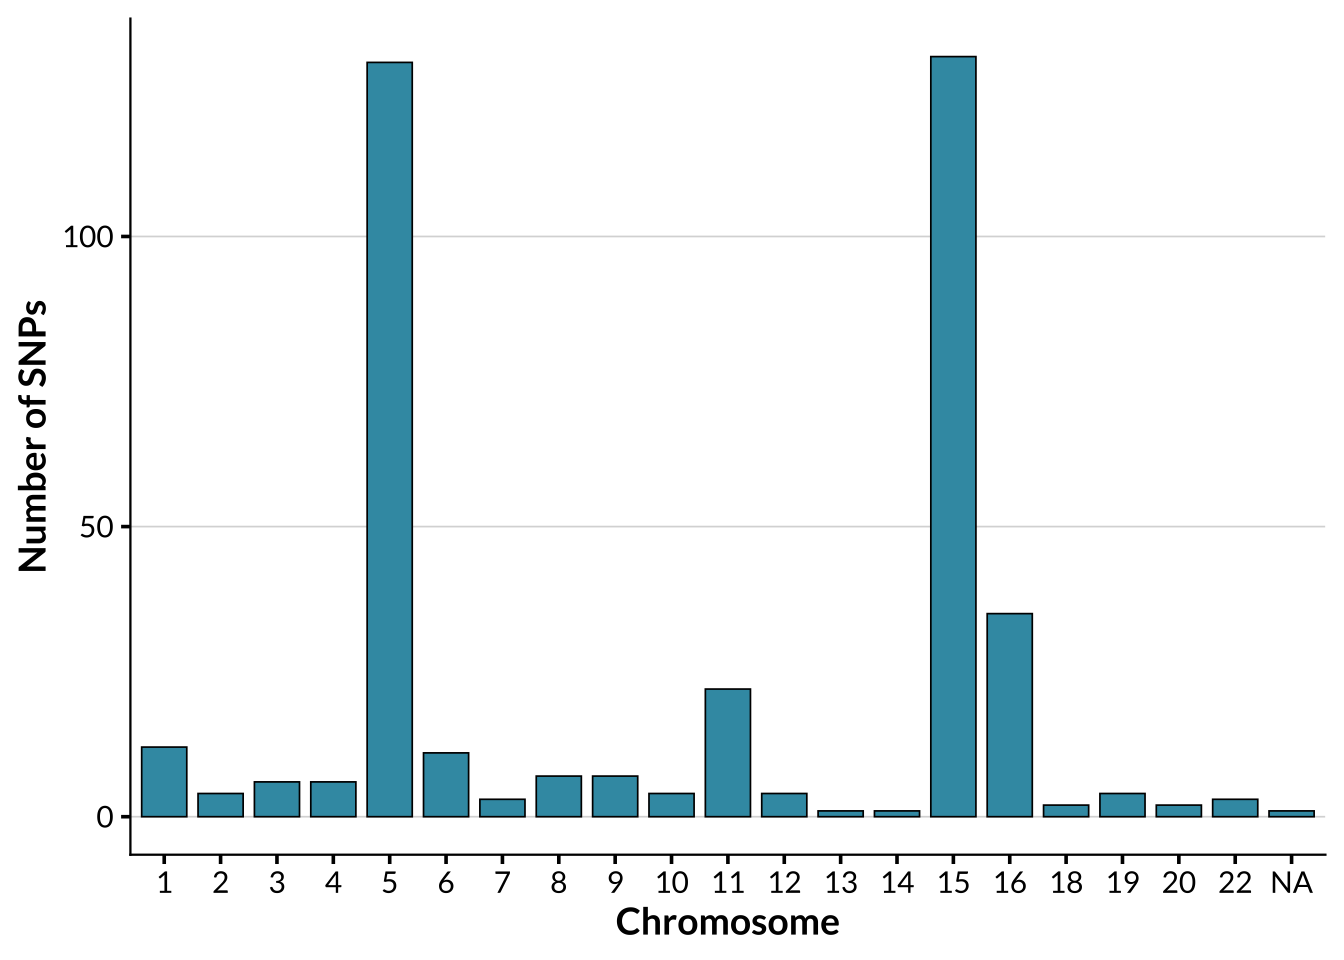
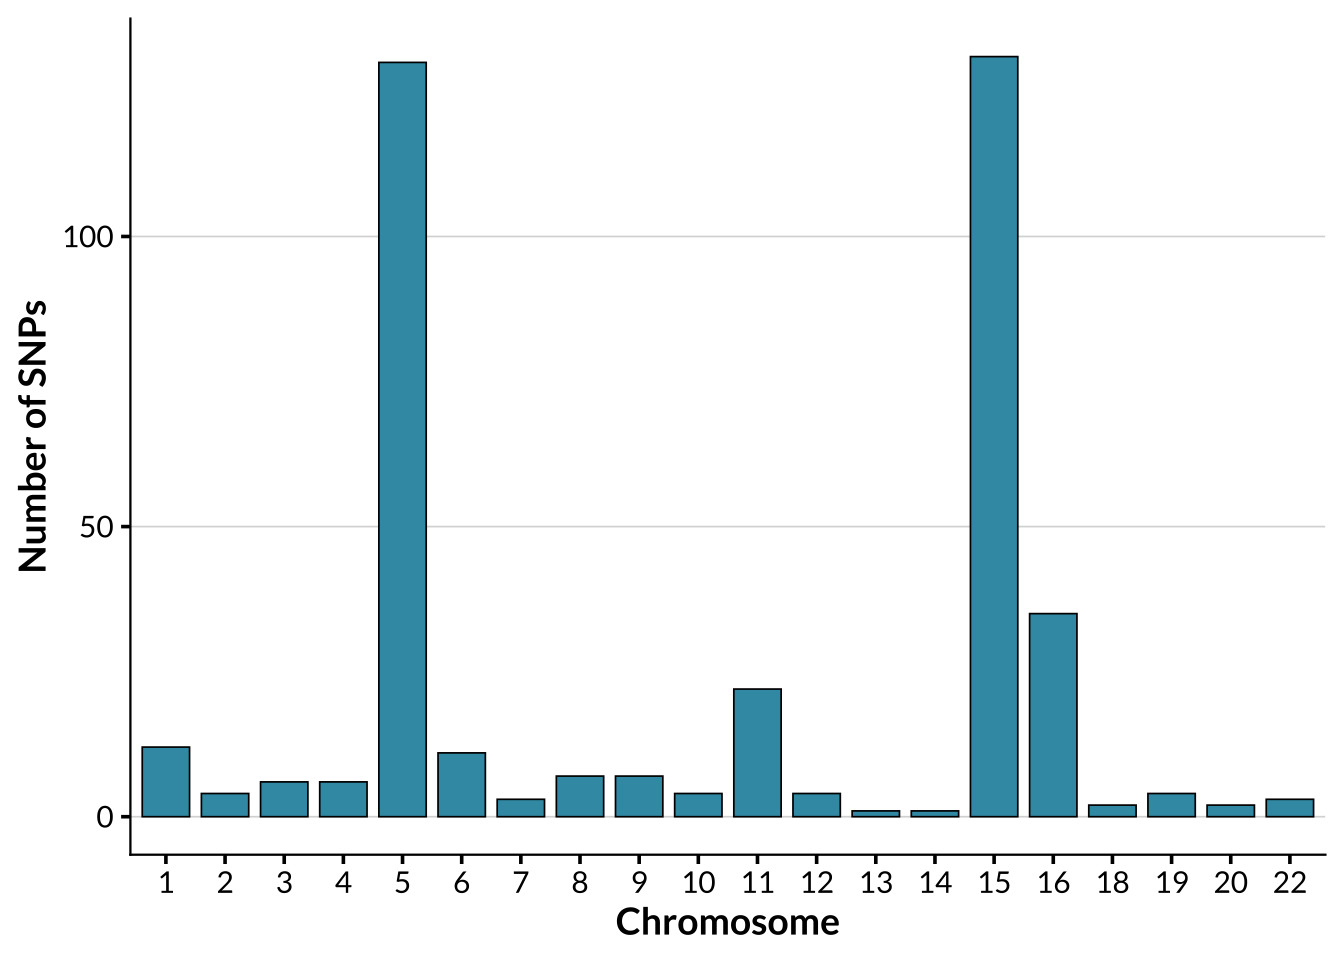
Clean bar chart

Changed region(s): [[0.125, 0.0312, 1.0, 0.875], [0.25, 0.9062, 0.9688, 0.9375], [0.1562, 0.9062, 0.2188, 0.9375]]

diff --git a/docs/introduction.html b/docs/introduction.html
@@ -385,7 +385,7 @@ aria-hidden="true"></span> </a>
 <div class="tab-content">
 <div id="summary" class="tab-pane fade in active">
 <p>
-<strong>Last updated:</strong> 2026-02-09
+<strong>Last updated:</strong> 2026-02-10
 </p>
 <p>
 <strong>Checks:</strong> <span
@@ -519,15 +519,15 @@ project makes it easier to run your code on other machines.</p>
 <div class="panel panel-default">
 <div class="panel-heading">
 <p class="panel-title">
-<a data-toggle="collapse" data-parent="#workflowr-checks" href="#strongRepositoryversionstrongahrefhttpsgithubcomlilyhealdPAINTtree441e6fe5899ffa37ccdd18232053e8c46b461067targetblank441e6fea">
+<a data-toggle="collapse" data-parent="#workflowr-checks" href="#strongRepositoryversionstrongahrefhttpsgithubcomlilyhealdPAINTtree5cd4031f33b38562dbfcfef60b69ac3d06910587targetblank5cd4031a">
 <span class="glyphicon glyphicon-ok text-success"
 aria-hidden="true"></span> <strong>Repository version:</strong>
-<a href="https://github.com/lilyheald/PAINT/tree/441e6fe5899ffa37ccdd18232053e8c46b461067" target="_blank">441e6fe</a>
+<a href="https://github.com/lilyheald/PAINT/tree/5cd4031f33b38562dbfcfef60b69ac3d06910587" target="_blank">5cd4031</a>
 </a>
 </p>
 </div>
 <div
[2 lines of base64/hex data omitted]
 class="panel-collapse collapse">
 <div class="panel-body">
 <p>
@@ -537,7 +537,7 @@ reproducibility.
 </p>
 <p>
 The results in this page were generated with repository version
-<a href="https://github.com/lilyheald/PAINT/tree/441e6fe5899ffa37ccdd18232053e8c46b461067" target="_blank">441e6fe</a>.
+<a href="https://github.com/lilyheald/PAINT/tree/5cd4031f33b38562dbfcfef60b69ac3d06910587" target="_blank">5cd4031</a>.
 See the <em>Past versions</em> tab to see a history of the changes made
 to the R Markdown and HTML files.
 </p>
@@ -606,6 +606,40 @@ Message
 </tr>
 </thead>
 <tbody>
+<tr>
+<td>
+html
+</td>
+<td>
+<a href="https://rawcdn.githack.com/lilyheald/PAINT/5cd4031f33b38562dbfcfef60b69ac3d06910587/docs/introduction.html" target="_blank">5cd4031</a>
+</td>
+<td>
+Lily Heald
+</td>
+<td>
+2026-02-09
+</td>
+<td>
+Update introduction
+</td>
+</tr>
+<tr>
+<td>
+Rmd
+</td>
+<td>
+<a href="https://github.com/lilyheald/PAINT/blob/4ea933979810362ec4a05cd3103b74d2bee9064c/analysis/introduction.Rmd" target="_blank">4ea9339</a>
+</td>
+<td>
+Lily Heald
+</td>
+<td>
+2026-02-09
+</td>
+<td>
+Update introduction
+</td>
+</tr>
 <tr>
 <td>
 Rmd
@@ -1447,7 +1481,7 @@ Lily Heald
 </div>
 </div>
 <div id="distribution-of-pigmentation-snps" class="section level1">
-<h1>Distribution of pigmentation snps</h1>
+<h1>Distribution of pigmentation SNPs</h1>
 <p><img src="figure/introduction.Rmd/snps_dist-1.png" alt="" width="672" style="display: block; margin: auto;" /></p>
 <p>
 <button type="button" class="btn btn-default btn-xs btn-workflowr btn-workflowr-fig" data-toggle="collapse" data-target="#fig-snps_dist-1">
